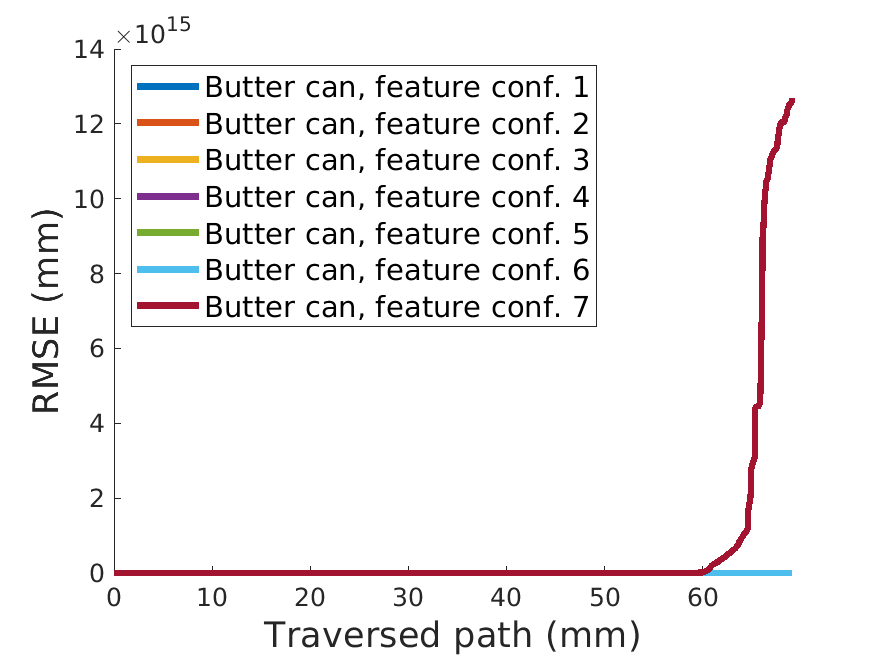
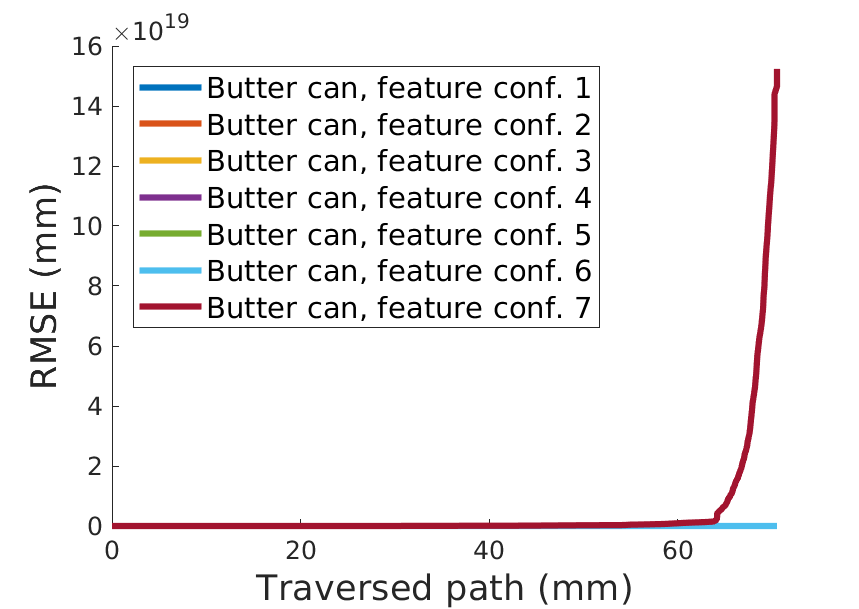
Datasize analysis

diff --git a/matlab/gp/simple_gp_datasize.m b/matlab/gp/simple_gp_datasize.m
@@ -1,0 +1,133 @@
+clear all
+warning('off','all')
+
+ps = parallel.Settings;
+ps.Pool.AutoCreate = false;
+% poolobj = gcp; % If no pool, do not create new one.
+
+px2mm = 0.2621;
+M = 30 + 1;
+
+mse = zeros(M-1, 3);
+for test_num = 1:3
+    
+    data_source = '20';
+    
+    mode = 8;
+    % w = [1.05 1.05 1 1 2 2 3 3]; % For cyl 25 and mode 8
+    switch mode
+        case 1
+            w = [3 3 1 1];
+        case 2
+            w = [3 3 1 1 1 1 1 1];
+        case 3
+            w = [3 3 1 1 1 1 1 1 1 1 3 3];
+        case 4
+            w = [];
+        case 5
+            w = [60 60 1 1 3 3];
+        case 7
+            w = [10 10 ones(1,14)];
+        case 8
+            w = [5 5 3 3 1 1 3 3];%[5 5 3 3 1 1 3 3]; % Last best: [3 3 1 1 1 1 1 1];
+    end
+    [Xtraining, Xtest, kdtree, I] = load_data(mode, w, test_num, data_source);
+    
+    Sr = Xtest;
+    
+    N = size(Xtraining, 1);
+    
+    %%
+    
+    n = linspace(0, N, M);
+    n = n(2:end);
+    
+    for j = 1:length(n)
+        
+        p = randperm(size(Xtraining,1));
+        p = p(1:n(j));
+        Xtraining_new = Xtraining(p,:);
+        
+        global W
+        W = diag(w);
+        kdtree = createns(Xtraining_new(:,[I.state_inx I.action_inx]), 'Distance',@distfun);
+        
+        %% open loop
+        SRI = zeros(size(Sr,1), 2);
+        for i = 1:size(Sr,1)
+            SRI(i,:) = project2image(Sr(i,1:2), I);
+        end
+        
+        s = Sr(1,I.state_inx);
+        S = zeros(size(Sr,1), I.state_dim);
+        SI = zeros(size(Sr,1), 2);
+        S(1,:) = s;
+        SI(1,:) = project2image(s(1:2), I);
+        loss = 0;
+        for i = 1:size(Sr,1)-1
+            a = Sr(i, I.action_inx);
+            disp(['Step: ' num2str(i) ', action: ' num2str(a)]);
+            [s, s2] = prediction(kdtree, Xtraining_new, s, a, I, 1);
+            S(i+1,:) = s;
+            
+            SI(i+1,:) = project2image(s(1:2), I);
+            
+        end
+        S = S(1:i+1,:);
+        
+        mse(j, test_num) = MSE(SRI, SI)*px2mm;
+        
+        save('datasize_analysis.mat','mse','n');
+        
+    end
+end
+
+
+%%
+
+figure(1)
+clf
+plot(n, mse);
+
+
+
+
+
+%% Functions
+
+function sd = denormz(s, I)
+
+xmin = I.xmin(1:length(s));
+xmax = I.xmax(1:length(s));
+
+sd = s .* (xmax-xmin) + xmin;
+
+end
+
+function sd = project2image(s, I)
+
+s = denormz(s, I);
+
+R = [cos(I.theta) -sin(I.theta); sin(I.theta) cos(I.theta)];
+s = (R' * s')';
+
+sd = s + I.base_pos(1:2);
+
+end
+
+function d = MSE(S1, S2)
+
+d = zeros(size(S1,1),1);
+for i = 1:length(d)
+    d(i) = norm(S1(i,1:2)-S2(i,1:2))^2;
+end
+
+d = cumsum(d);
+
+d = d ./ (1:length(d))';
+
+d = sqrt(d);
+
+d = d(end);
+
+end

diff --git a/matlab/gp/paths_solution_mats/Run2.m b/matlab/gp/paths_solution_mats/Run2.m
@@ -2,7 +2,7 @@ clear all
 clc
 
 K = [1 2 3 4 5 8 7];
-data_sources = {'30_4'};%{'26_2','30_4','36_3'};
+data_sources = {'36_3'};%{'26_2','30_4','36_3'};
 objs = {'Butter can','Glue stick','Hair-spary'};
 realFC = [1 2 3 4 5 6 7];
 
